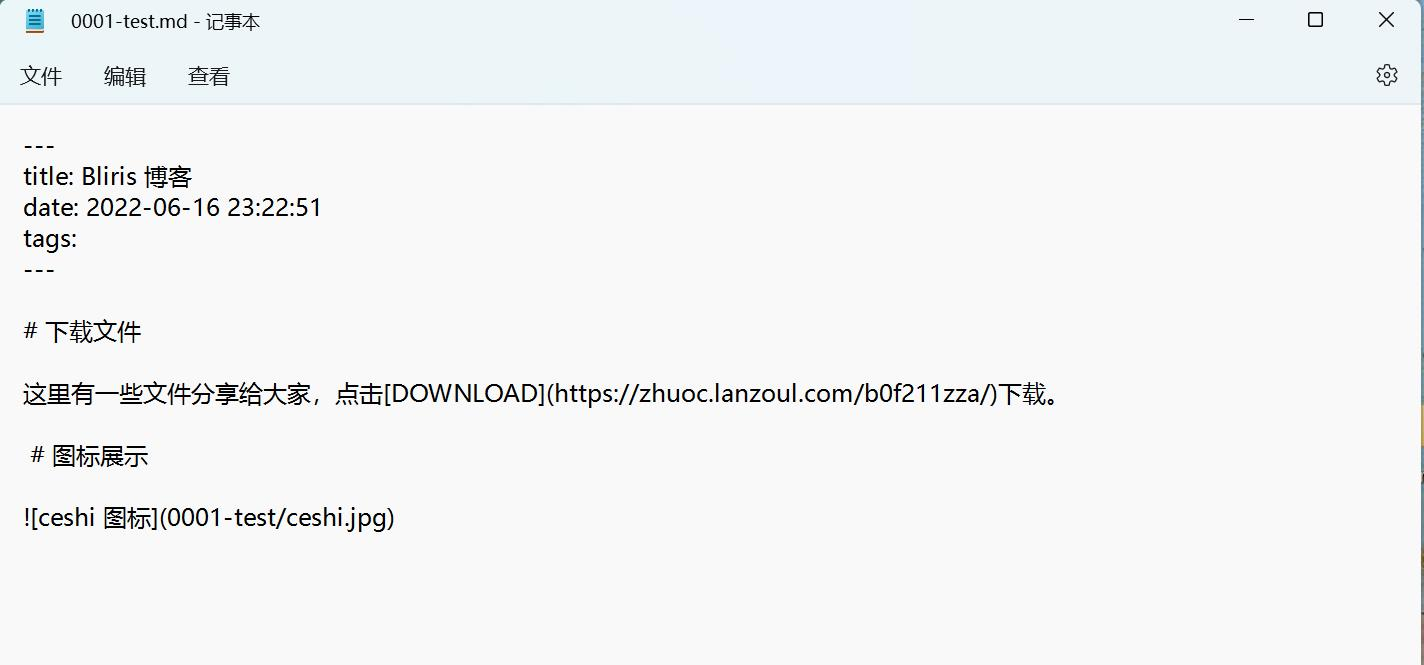
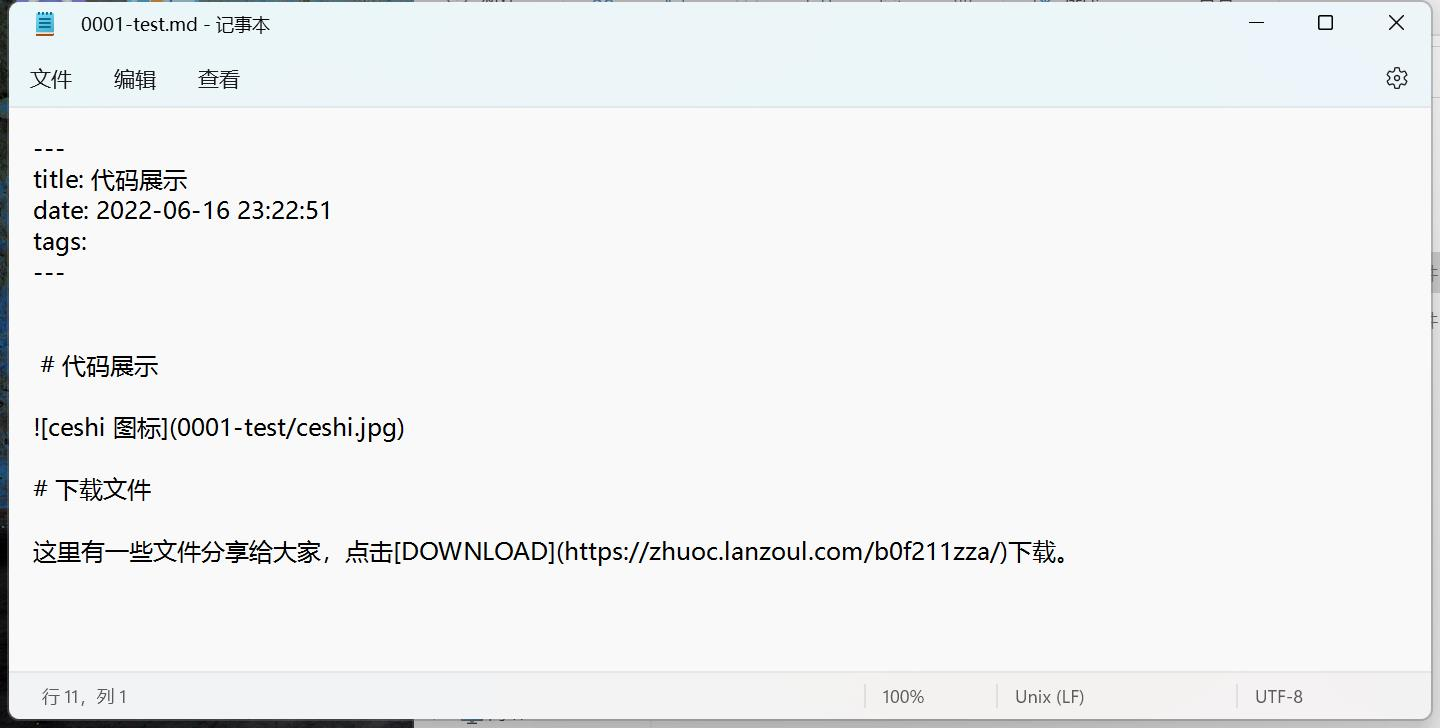
Site updated: 2022-07-14 21:30:12

Changed region(s): [[0.0, 0.0, 1.0, 1.0]]

diff --git a/2022/06/16/0001-test/index.html b/2022/06/16/0001-test/index.html
@@ -6,16 +6,16 @@
   
   <title>代码展示 | Bliris</title>
   <meta name="viewport" content="width=device-width, initial-scale=1, shrink-to-fit=no">
-  <meta name="description" content="下载文件这里有一些文件分享给大家，点击DOWNLOAD下载。  代码展示">
+  <meta name="description" content="代码展示 下载文件这里有一些文件分享给大家，点击DOWNLOAD下载。">
 <meta property="og:type" content="article">
 <meta property="og:title" content="代码展示">
 <meta property="og:url" content="http://example.com/2022/06/16/0001-test/index.html">
 <meta property="og:site_name" content="Bliris">
-<meta property="og:description" content="下载文件这里有一些文件分享给大家，点击DOWNLOAD下载。  代码展示">
+<meta property="og:description" content="代码展示 下载文件这里有一些文件分享给大家，点击DOWNLOAD下载。">
 <meta property="og:locale" content="en_US">
 <meta property="og:image" content="http://example.com/2022/06/16/0001-test/ceshi.jpg">
 <meta property="article:published_time" content="2022-06-16T15:22:51.000Z">
-<meta property="article:modified_time" content="2022-07-14T13:17:34.169Z">
+<meta property="article:modified_time" content="2022-07-14T13:29:35.807Z">
 <meta property="article:author" content="John Doe">
 <meta name="twitter:card" content="summary">
 <meta name="twitter:image" content="http://example.com/2022/06/16/0001-test/ceshi.jpg">
@@ -97,8 +97,9 @@
     
     <div class="e-content article-entry" itemprop="articleBody">
       
-        <h1 id="下载文件"><a href="#下载文件" class="headerlink" title="下载文件"></a>下载文件</h1><p>这里有一些文件分享给大家，点击<a target="_blank" rel="noopener" href="https://zhuoc.lanzoul.com/b0f211zza/">DOWNLOAD</a>下载。 </p>
-<h1 id="代码展示"><a href="#代码展示" class="headerlink" title="代码展示"></a>代码展示</h1><p><img src="/2022/06/16/0001-test/ceshi.jpg" alt="ceshi 图标"></p>
+        <h1 id="代码展示"><a href="#代码展示" class="headerlink" title="代码展示"></a>代码展示</h1><p><img src="/2022/06/16/0001-test/ceshi.jpg" alt="ceshi 图标"></p>
+<h1 id="下载文件"><a href="#下载文件" class="headerlink" title="下载文件"></a>下载文件</h1><p>这里有一些文件分享给大家，点击<a target="_blank" rel="noopener" href="https://zhuoc.lanzoul.com/b0f211zza/">DOWNLOAD</a>下载。 
+  </p>
 
       
     </div>

diff --git a/index.html b/index.html
@@ -132,8 +132,9 @@
     
     <div class="e-content article-entry" itemprop="articleBody">
       
-        <h1 id="下载文件"><a href="#下载文件" class="headerlink" title="下载文件"></a>下载文件</h1><p>这里有一些文件分享给大家，点击<a target="_blank" rel="noopener" href="https://zhuoc.lanzoul.com/b0f211zza/">DOWNLOAD</a>下载。 </p>
-<h1 id="代码展示"><a href="#代码展示" class="headerlink" title="代码展示"></a>代码展示</h1><p><img src="/2022/06/16/0001-test/ceshi.jpg" alt="ceshi 图标"></p>
+        <h1 id="代码展示"><a href="#代码展示" class="headerlink" title="代码展示"></a>代码展示</h1><p><img src="/2022/06/16/0001-test/ceshi.jpg" alt="ceshi 图标"></p>
+<h1 id="下载文件"><a href="#下载文件" class="headerlink" title="下载文件"></a>下载文件</h1><p>这里有一些文件分享给大家，点击<a target="_blank" rel="noopener" href="https://zhuoc.lanzoul.com/b0f211zza/">DOWNLOAD</a>下载。 
+  </p>
 
       
     </div>
